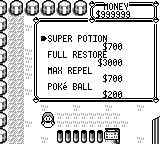
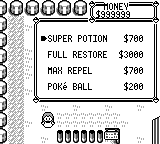
fix: align mart prices, clear badge heading and avoid Oak tick allocations

diff --git a/crates/pokered-ui/src/menus/mart.rs b/crates/pokered-ui/src/menus/mart.rs
@@ -136,17 +136,9 @@ pub fn draw_buy_items_with_money<P: Painter>(
             if row >= list_rect.th.saturating_sub(2) {
                 break;
             }
-            if let Some(data) = get_item_data(*item_id) {
+            if get_item_data(*item_id).is_some() {
                 let name = render_data.item_name(*item_id);
                 frame.label(1, row, name, InkColor::Black);
-                if lang != Lang::Zh {
-                    frame.label(
-                        6,
-                        row + 1,
-                        &format!("{:>7}", format!("${}", data.price)),
-                        InkColor::Black,
-                    );
-                }
             }
         }
         let cursor_row = layout.cursor.base_ty
@@ -158,16 +150,21 @@ pub fn draw_buy_items_with_money<P: Painter>(
                 });
         frame.cursor_at(layout.cursor.tx, cursor_row, layout.cursor.color);
     });
-    if lang == Lang::Zh {
-        for (i, item) in items.iter().skip(scroll_offset).take(3).enumerate() {
-            if let Some(data) = get_item_data(*item) {
-                ui.painter().draw_text_px(
-                    (list_rect.tx + 7) * 8,
-                    (list_rect.ty + 2 + i as u32 * 3) * 8 + 12,
-                    &format!("{:>7}", format!("${}", data.price)),
-                    InkColor::Black.into(),
-                );
-            }
+    for (i, item) in items.iter().skip(scroll_offset).enumerate() {
+        let row = 1 + i as u32 * if lang == Lang::Zh { 3 } else { 2 };
+        if row >= list_rect.th.saturating_sub(2) {
+            break;
+        }
+        if let Some(data) = get_item_data(*item) {
+            let price = format!("${}", data.price);
+            let painter = ui.painter();
+            let x = (list_rect.tx + list_rect.tw - 2) * 8 - painter.measure_text_px(&price);
+            painter.draw_text_px(
+                x,
+                (list_rect.ty + 1 + row) * 8,
+                &price,
+                InkColor::Black.into(),
+            );
         }
     }
     draw_money_box(

diff --git a/crates/pokered-core/src/oak_speech.rs b/crates/pokered-core/src/oak_speech.rs
@@ -122,9 +122,16 @@ impl TextPage {
     }
 
     pub fn total_chars(&self, player_name: Option<&str>) -> usize {
-        let l1 = Self::replace_player(self.line1, player_name);
-        let l2 = Self::replace_player(self.line2, player_name);
-        l1.chars().count() + l2.chars().count()
+        // Called on every typewriter tick: count the substituted text without
+        // allocating two temporary strings on the GBA heap.
+        let name_len = player_name.unwrap_or("RED").chars().count();
+        let count = |text: &str| {
+            let mut parts = text.split("<PLAYER>");
+            let first = parts.next().unwrap_or("");
+            let chars = |part: &str| if part.is_ascii() { part.len() } else { part.chars().count() };
+            chars(first) + parts.map(|part| name_len + chars(part)).sum::<usize>()
+        };
+        count(self.line1) + count(self.line2)
     }
 
     fn replace_player(text: &str, player_name: Option<&str>) -> String {
@@ -834,6 +841,17 @@ impl Default for OakSpeechState {
 #[cfg(test)]
 mod tests {
     use super::*;
+
+    #[test]
+    fn typewriter_length_matches_substituted_unicode_text() {
+        for page in [TextPage::new("Hello!", ""), TextPage::new("你好<PLAYER>", "<PLAYER>，你好！"), TextPage::new("<PLAYER><PLAYER>", "End.")] {
+            for name in [None, Some("RED"), Some("小智"), Some(""), Some("<PLAYER>")] {
+                let expected = page.line1.replace("<PLAYER>", name.unwrap_or("RED")).chars().count()
+                    + page.line2.replace("<PLAYER>", name.unwrap_or("RED")).chars().count();
+                assert_eq!(page.total_chars(name), expected);
+            }
+        }
+    }
 
     fn press_a() -> OakSpeechInput {
         OakSpeechInput {

diff --git a/crates/pokered-ui/tests/mart_font_bounds.rs b/crates/pokered-ui/tests/mart_font_bounds.rs
@@ -32,7 +32,7 @@ fn height(_text: &str) -> u32 {
 }
 
 #[test]
-fn original_buy_name_price_rows_and_money_header_are_separate() {
+fn buy_prices_share_item_baselines_and_align_at_the_right_edge() {
     let mut rec = Recorder::default();
     mart::draw_buy_items_with_money(
         &[ItemId::ThunderStone, ItemId::UltraBall],
@@ -51,7 +51,10 @@ fn original_buy_name_price_rows_and_money_header_are_separate() {
     assert!(rec
         .texts
         .iter()
-        .any(|(x, y, t)| (*x, *y) == (88, 40) && t.trim() == "$2100"));
+        .any(|(x, y, t)| (*x, *y) == (119, 32) && t.trim() == "$2100"));
+    let prices: Vec<_> = rec.texts.iter().filter(|(_, y, t)| *y > 8 && t.starts_with('$')).collect();
+    assert_eq!(prices.len(), 2);
+    for (x, _, text) in prices { assert_eq!(x + rec.measure_text_px(text), 144); }
     assert!(rec.texts.contains(&(104, 0, "MONEY".into())));
     assert!(rec.texts.contains(&(96, 8, "$999999".into())));
     for (x, _, text) in &rec.texts {

diff --git a/crates/pokered-app/src/render/trainer_card.rs b/crates/pokered-app/src/render/trainer_card.rs
@@ -76,7 +76,14 @@ pub fn draw_trainer_card(
         draw_text(ui_label(label, is_zh), 16, y, fg, fb);
         draw_text(&value, x, y, fg, fb);
     }
-    draw_text(ui_label("BADGES", is_zh), 56, 72, fg, fb);
+    // Fusion Pixel extends below the original eight-pixel heading row.
+    // Clear its full ink area so the frame texture cannot show through.
+    let heading = ui_label("BADGES", is_zh);
+    let width = pokered_renderer::embedded_font::measure_text(heading);
+    for y in 72..82 {
+        for x in 56..56 + width { fb.set_pixel(x, y, Rgba::WHITE); }
+    }
+    draw_text(heading, 56, 72, fg, fb);
 
     // Badge rows: number tile beside the 2×2 face (unowned) or badge (owned)
     // graphic (GymLeaderFaceAndBadgeTileGraphics layout: face i at

diff --git a/crates/pokered-tui/src/render/trainer_card.rs b/crates/pokered-tui/src/render/trainer_card.rs
@@ -75,7 +75,14 @@ pub fn draw_trainer_card(
         draw_text(ui_label(label, is_zh), 16, y, fg, fb);
         draw_text(&value, x, y, fg, fb);
     }
-    draw_text(ui_label("BADGES", is_zh), 56, 72, fg, fb);
+    // Fusion Pixel extends below the original eight-pixel heading row.
+    // Clear its full ink area so the frame texture cannot show through.
+    let heading = ui_label("BADGES", is_zh);
+    let width = pokered_renderer::embedded_font::measure_text(heading);
+    for y in 72..82 {
+        for x in 56..56 + width { fb.set_pixel(x, y, Rgba::WHITE); }
+    }
+    draw_text(heading, 56, 72, fg, fb);
 
     // Badge rows: number tile beside the 2×2 face (unowned) or badge (owned)
     // graphic (GymLeaderFaceAndBadgeTileGraphics layout: face i at

diff --git a/docs/audits/fidelity-presentation-split/README.md b/docs/audits/fidelity-presentation-split/README.md
@@ -13,3 +13,9 @@ Use `after` on the PR checkout. Remove the temporary example afterward. Phase-re
 The four `zh-*` pairs come from the unchanged `visual_verify_zh_descriptions::capture_zh_descriptions` ignored capture test, run on each checkout, and exercise the #110 pagination paths. `captures.json` records all image hashes. PNG pairs are in `docs/screenshots/fidelity-presentation-split/`.
 
 Validation: core + UI preview 3014 passed; renderer 395; UI 102; app lib/bin/integration executions 331 passed, 10 ignored; TUI and UI-preview cargo check; native debug-server build; fresh playthrough m01–m02 passed (2045 frames). These are test executions, not a unique-test aggregate. Later full playthrough is limited by the independently reproduced master m03 stair-navigation failure; no full-game completion is claimed.
+
+## Review corrections
+
+The final `mart-buy-En`, `mart-buy-Zh` and `trainer-card` after images were regenerated with the identical archived fixture after review. The preceding PR images at `f5b9348` remain as `*-review-before.png`. Prices now share item baselines and use measured widths for right alignment; the full ten-pixel BADGES heading area is cleared before text. The original master images remain unchanged.
+
+GBA CI reported Oak update time 167 → 193 ticks (limit 192.1). `TextPage::total_chars` now counts placeholder substitutions without allocating strings each tick; a Unicode/repeated-placeholder test compares against actual substitution. The performance baseline and gate are unchanged. Local core 2958 and UI 102 tests passed; TUI check passed. GBA timing awaits the new CI run.
